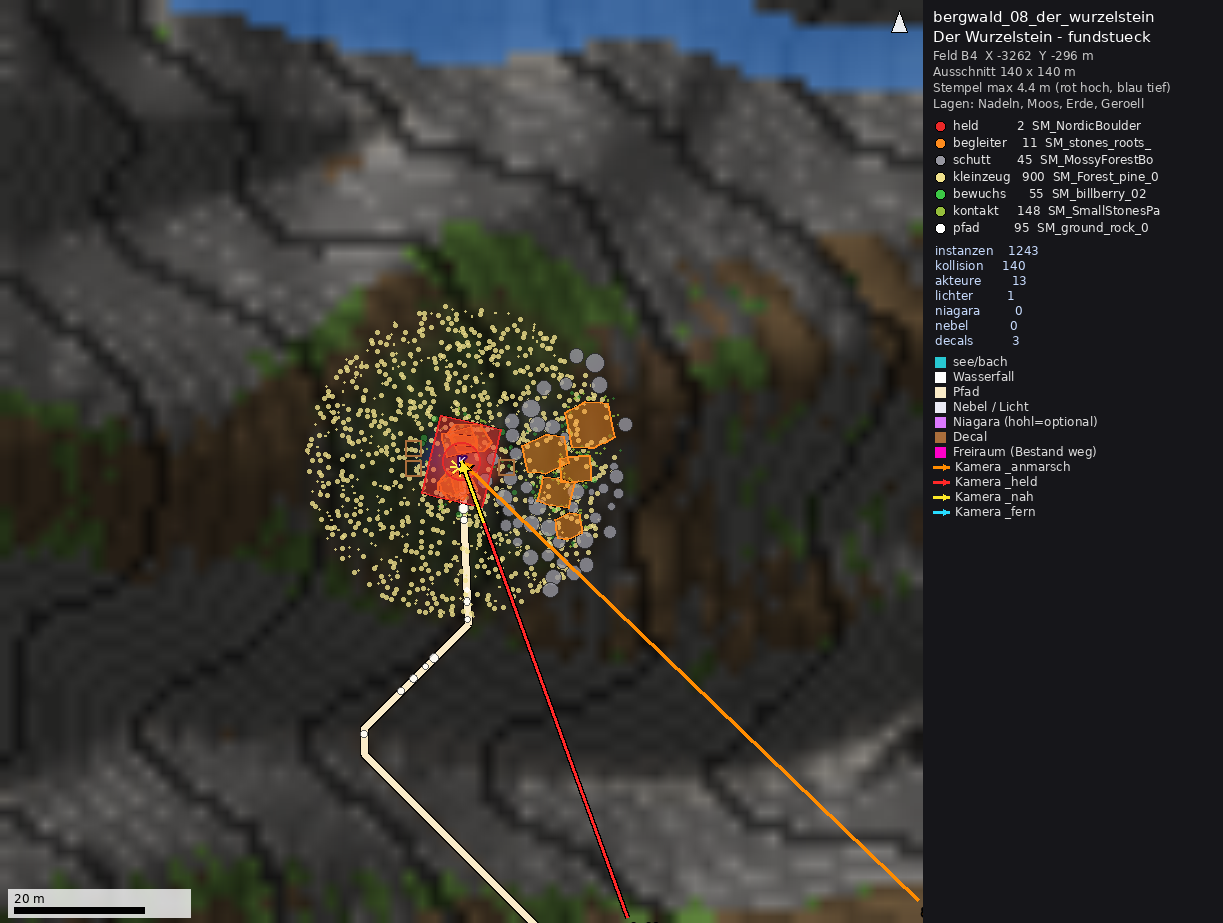
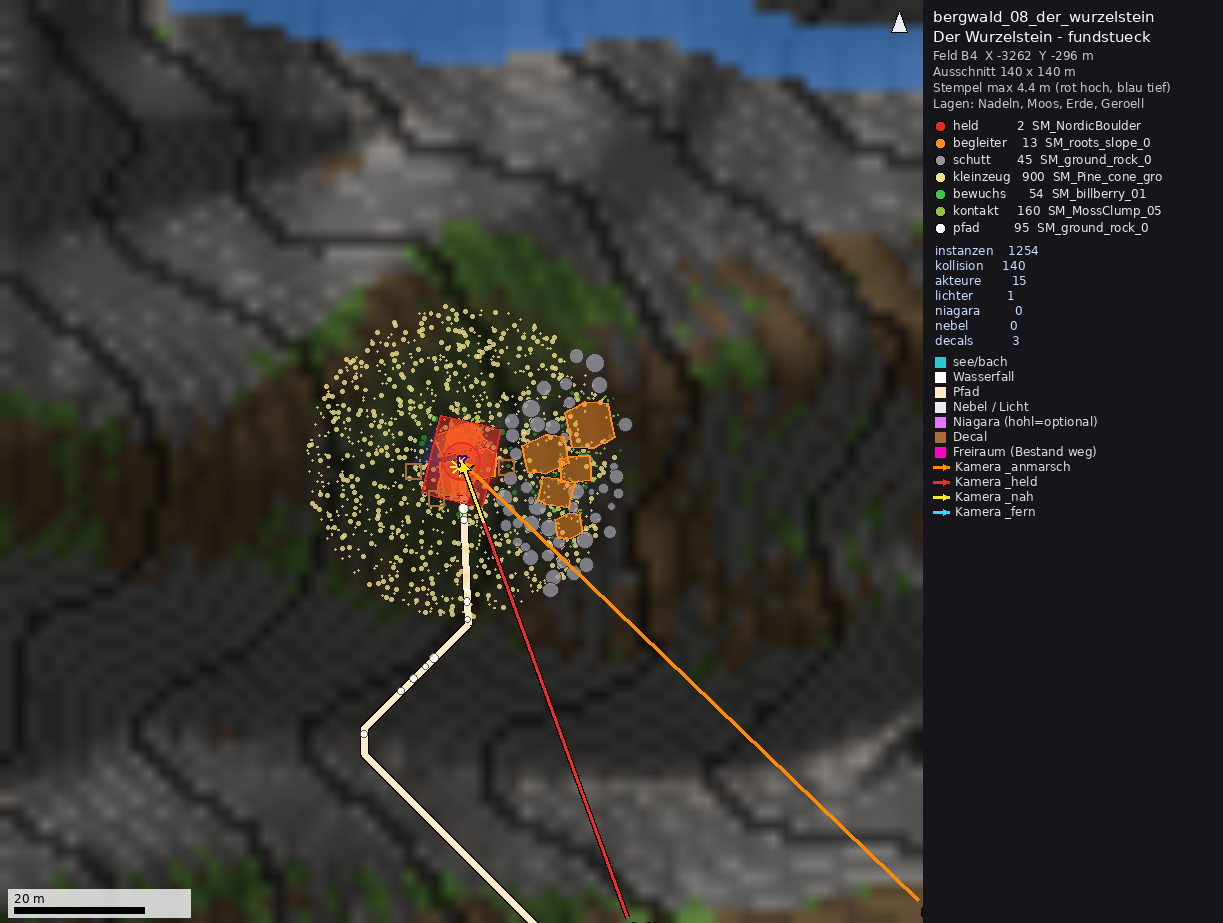
Auftrag 13d: Bergwald-Planer auf echte Assets (Nature Water FX, Mountain-Netze, Coast-&-Dunes-Nassband), rezept: Decal-Verteilung ufer, Niagara-Yaw, Wasser-Materialhinweis
Claude-Session: https://claude.ai/code/session_012h1LYW6NJeQxhd7im8Kkes

diff --git a/recherche/antworten/skripte/sehens_lib/rezept.py b/recherche/antworten/skripte/sehens_lib/rezept.py
@@ -517,6 +517,17 @@ class OrtKontext:
 
     # ------------------------------------------------------------------ Wasser (§5)
     def wasser_bauen(self):
+        n0 = len(self.wasser)
+        self._wasser_bauen()
+        regeln = [w for w in (self.r.get("wasser") or []) if w.get("typ") in ("see", "bach", "wasserfall")]
+        nach_id = {w.get("id"): w for w in regeln}
+        for e in self.wasser[n0:]:
+            w = nach_id.get(e.get("id"), {})
+            for k in ("material_hinweis", "hinweis_wasser"):     # z. B. Mountain-Fluss-/Wasserfall-Material (13d)
+                if w.get(k):
+                    e[k] = w[k]
+
+    def _wasser_bauen(self):
         for w in self.r.get("wasser") or []:
             t = w.get("typ")
             if t == "see":
@@ -1347,8 +1358,13 @@ class OrtKontext:
             orte = [self.punkt(e.get("bei", "mitte"))]
             if n > 1 or e.get("verteilung"):
                 form = self._form(e.get("verteilung") or {"typ": "kreis", "bei": e.get("bei", "mitte"), "r_m": 6.0}, rng)
-                xs, ys, _ = _ins.streue(rng, form, n, float(e.get("abstand_m", 1.5)),
-                                        filter_fn=(lambda a, b, c: ~self.im_wasser(a, b)) if t == "decal" else None)
+                def _filt(a, b, c, form=form):
+                    ok = ~self.im_wasser(a, b) if t == "decal" else np.ones(len(a), bool)
+                    if "_ufer" in form:     # Verteilung "ufer": nur im Band band_m an der Wasserkante (Nassband-Decals)
+                        dd = self.wasser_abstand(a, b)
+                        ok &= (dd >= form["_ufer"][0]) & (dd <= form["_ufer"][1])
+                    return ok
+                xs, ys, _ = _ins.streue(rng, form, n, float(e.get("abstand_m", 1.5)), filter_fn=_filt, versuche=30)
                 orte = list(zip(xs, ys))
             for (x, y) in orte:
                 z = float(self.boden(x, y)) + float(e.get("hoehe_m", 0.0))
@@ -1370,8 +1386,9 @@ class OrtKontext:
                 elif t == "niagara":
                     asset = e.get("asset")
                     pfad = self.inv.niagara_pfad(asset) if asset else None
+                    yaw_n = self.richtung(e["yaw"], e.get("bei", "mitte")) if "yaw" in e else float(e.get("yaw_grad", 0.0))
                     d = {"typ": t, "asset": pfad or asset, "pos_cm": pos,
-                         "rot_q": [round(v, 5) for v in _ins.q_yaw_kompass(float(e.get("yaw_grad", 0.0)))],
+                         "rot_q": [round(v, 5) for v in _ins.q_yaw_kompass(yaw_n)],
                          "skala": float(e.get("skala", 1.0)), "optional": bool(e.get("optional", True))}
                     for k in ("wunsch_paket", "hinweis", "credits"):
                         if e.get(k):

diff --git a/recherche/antworten/skripte/sehens_bergwald/README.md b/recherche/antworten/skripte/sehens_bergwald/README.md
@@ -14,24 +14,41 @@ Ausgabe: `<aus>/orte.json`, `gelaende/`, `lagen/`, `sw_bergwald/<Feld>/` (plan.j
 `test_<id>.png`. Eigener Code nur im Hook `hook_windwurf_anker` (Stammfüße, Wurzelteller, Wurzellöcher, Pfützen);
 alles andere sind Regeln.
 
-## Testlauf 2 m (11.10.2026, 57 s, deterministisch)
+## Testlauf 2 m (Inventar 13d, 11.10.2026, 84 s, deterministisch)
 
-Planer 0 FEHLER / 0 WARNUNG; Prüfer (`orte.json` + `sw_bergwald`, mit Daten und Inventar) **0 FEHLER, 0 WARNUNG**,
-1 HINWEIS (2 Kiesel am Karsee im Bestandswasser).
+Planer 0 FEHLER / 0 WARNUNG; Prüfer (`orte.json` + `sw_bergwald`, mit Daten und Inventar 13d) **0 FEHLER, 0 WARNUNG**,
+2 HINWEISE (2 Kiesel am Karsee im Bestandswasser, 1 Stein in der Klamm ganz im Boden).
 
-| Ort | Instanzen | Kollision | Akteure | Held / Begl. / Schutt / Kleinzeug / Bewuchs / Kontakt | Wasser | Effekte | Stempel |
-|---|---|---|---|---|---|---|---|
-| 01 Mönch | 1 751 | 275 | 9 | 2 / 7 / 162 / 928 / 40 / 504 (+117 Pfadstufen) | – | Nebel, 4 Decals | 1,9 m |
-| 02 Brandkiefer | 780 | 53 | 6 | 1 / 5 / 60 / 540 / 115 / 61 | – | Niagara opt., 8 Decals | – |
-| 03 Säulenhain | 2 889 | 104 | 22 | 12 / 10 / 90 / 1 968 / 294 / 523 | Bach bleibt | Spot, Nebel, 4 Decals | – |
-| 04 Felsenmeer | 2 513 | 214 | 11 | 3 / 8 / 173 / 1 895 / 69 / 345 | – | Nebel, 4 Decals | 1,7 m |
-| 05 Klemmblock-Klamm | 667 | 138 | 18 | 1 / 17 / 66 / 350 / 41 / 111 (+40 Gumpengeröll) | Gumpe, Bach, Schleierfall 30 m | Licht, Nebel, Niagara opt., 5 Decals | 9,6 m |
-| 06 Karsee | 1 845 | 287 | 7 | 2 / 5 / 154 / 1 106 / 321 / 123 | See + Abfluss + 2 Zuläufe | Nebel, 3 Decals | 9,1 m |
-| 07 Windwurf | 2 782 | 160 | 41 | 14 / 27 / 160 / 2 209 / 280 / 133 | 4 Pfützen | Niagara opt., 6 Decals | 1,6 m |
-| 08 Wurzelstein | 1 243 | 140 | 13 | 2 / 11 / 45 / 900 / 55 / 148 (+95 Pfadstufen) | – | Spot, 3 Decals | 4,4 m |
+| Ort | Instanzen | Kollision | Akteure | Wasser | Effekte | Stempel |
+|---|---|---|---|---|---|---|
+| 01 Mönch | 1 788 | 274 | 9 | – | Nebel, 4 Decals | 1,9 m |
+| 02 Brandkiefer | 786 | 80 | 6 | – | Niagara opt., 8 Decals | – |
+| 03 Säulenhain | 3 289 | 104 | 22 | Bach bleibt | Spot, Nebel, 4 Decals | – |
+| 04 Felsenmeer | 2 507 | 212 | 11 | – | Nebel, 4 Decals | 1,7 m |
+| 05 Klemmblock-Klamm | 667 | 138 | 18 | Gumpe, Bach, Schleierfall 30 m | `NS_Waterfall_Medium`, `NS_Impact_Medium`, `NS_Stream_Small`, Licht, Nebel, 8 Decals (3 × `MI_Deca_Wet`) | 9,6 m |
+| 06 Karsee | 1 845 | 287 | 7 | See + Abfluss + 2 Zuläufe | `NS_Stream_Small` am Auslass, Nebel, 8 Decals (5 × `MI_Deca_Wet_Flat`) | 9,1 m |
+| 07 Windwurf | 2 792 | 168 | 41 | 4 Pfützen | Niagara opt., 6 Decals | 1,6 m |
+| 08 Wurzelstein | 1 254 | 140 | 15 | – | Spot, 3 Decals | 4,4 m |
 
-Alle Orte unter §9 (≤ 15 000 / 1 500 / 80). Je Feld: B3 1 749, B4 4 538, B5 4 724, C5 10, I4 3 449 Instanzen.
+Alle Orte unter §9 (≤ 15 000 / 1 500 / 80, ≤ 3 Niagara). Je Feld: B3 1 786, B4 4 549, B5 5 124, C5 10, I4 3 459 Instanzen.
+Jeder Ort hat alle sechs Witcher-Detailebenen (`orte.json["detail_ebenen"]`).
 Material-Instanzen 5 von 6: `MI_EL_SW_Verkohlt`, `_Klammfels_Nass`, `_Granit_Moos`, `_Block_Moos`, `_Stamm_Windstill`.
+
+## Umstellung auf Inventar 13d
+
+- **Nature Water FX** statt Ersatz: Schleierfall `NS_Waterfall_Medium` an der Kante, `NS_Impact_Medium` an der Gumpe,
+  `NS_Stream_Small` im Klammbach und am Karsee-Auslass (nicht mehr `optional`).
+- **Mountain-Fluss-/Wasserfallmaterial:** `inventar.json` nennt nur Materialnamen ohne Pfad (`M_River_Water_Translucent`) →
+  als `material_hinweis` an Bach/Wasserfall von Klamm und Karsee, kein erfundener Pfad.
+- **Mountain-Netze (+243):** Hangwurzeln `SM_roots_slope_02/03_*` und `SM_Pine_roots_04` am Wurzelstein,
+  freigespülte Wurzeln `SM_Pine_roots_05/06` an der Fallkante, Wurzelteller `SM_stones_roots_04/05` im Windwurf,
+  Zapfen `SM_Pine_cone_*` (Mönch, Säulenhain, Wurzelstein), 7 Pilzarten `SM_mushroom_*` (Säulenhain, Windwurf),
+  Bruchäste `SM_Pine_broken_branch_04–10`, Steine `SM_stone_09–12`, Beeren/Heide/Latschen-Varianten,
+  Jungbäume `SM_Forest_pine_tree_00_A/B`, Platte `SM_flat_rock_01`.
+- **Coast & Dunes:** Nassband-Decals `MI_Deca_Wet` (Klamm) und `MI_Deca_Wet_Flat` (Karsee-Ufer, Verteilung `ufer`).
+- `assets_wunsch` bereinigt: Nature Water FX und Mountain entfernt; übrig sind nur noch fehlende Pakete
+  (Forest Fungi – jetzt optional –, Niagara VFX Pack Autumn Leaves, Wilderness Nature Loops).
+- `SM_Forest_pine_06` gibt es seit 13d zweimal (Foliage und Roots) → voller Pfad in den Regeln.
 
 ## Abgleich 13b/13c umgesetzt
 
@@ -44,9 +61,8 @@ Material-Instanzen 5 von 6: `MI_EL_SW_Verkohlt`, `_Klammfels_Nass`, `_Granit_Moo
 - **Karsee:** eigener `see` (`schwarz_spiegel`), Becken automatisch eingepasst, Schwelle als Lippe am Abfluss.
   Stempel 9,1 m statt der ±6 m aus 13c, weil der Karboden in den 2-m-Daten 18–27° geneigt ist (Begründung in `gelaende`);
   Ferat hat am 11.10. „Gelände frei“ gegeben – bitte im 1-m-Lauf prüfen.
-- **Klemmblock-Klamm:** `wasserfall` (Kante aus der Stufe, Fuß = Gumpe), Gumpe `smaragd`, Bach zum Bestandsgerinne;
-  **Nature Water FX** ist gekauft, aber noch nicht im Inventar → `niagara` `NS_Smoke_Plume` (Kopie, weiß) mit
-  `"optional": true`, `wunsch_paket` und `assets_wunsch`; Gischt sonst über `lokaler_nebel`.
+- **Klemmblock-Klamm:** `wasserfall` (Kante aus der Stufe, Fuß = Gumpe), Gumpe `smaragd`, Bach zum Bestandsgerinne,
+  Effekte aus Nature Water FX (siehe oben).
 
 ## Grenzen und offene Punkte
 
